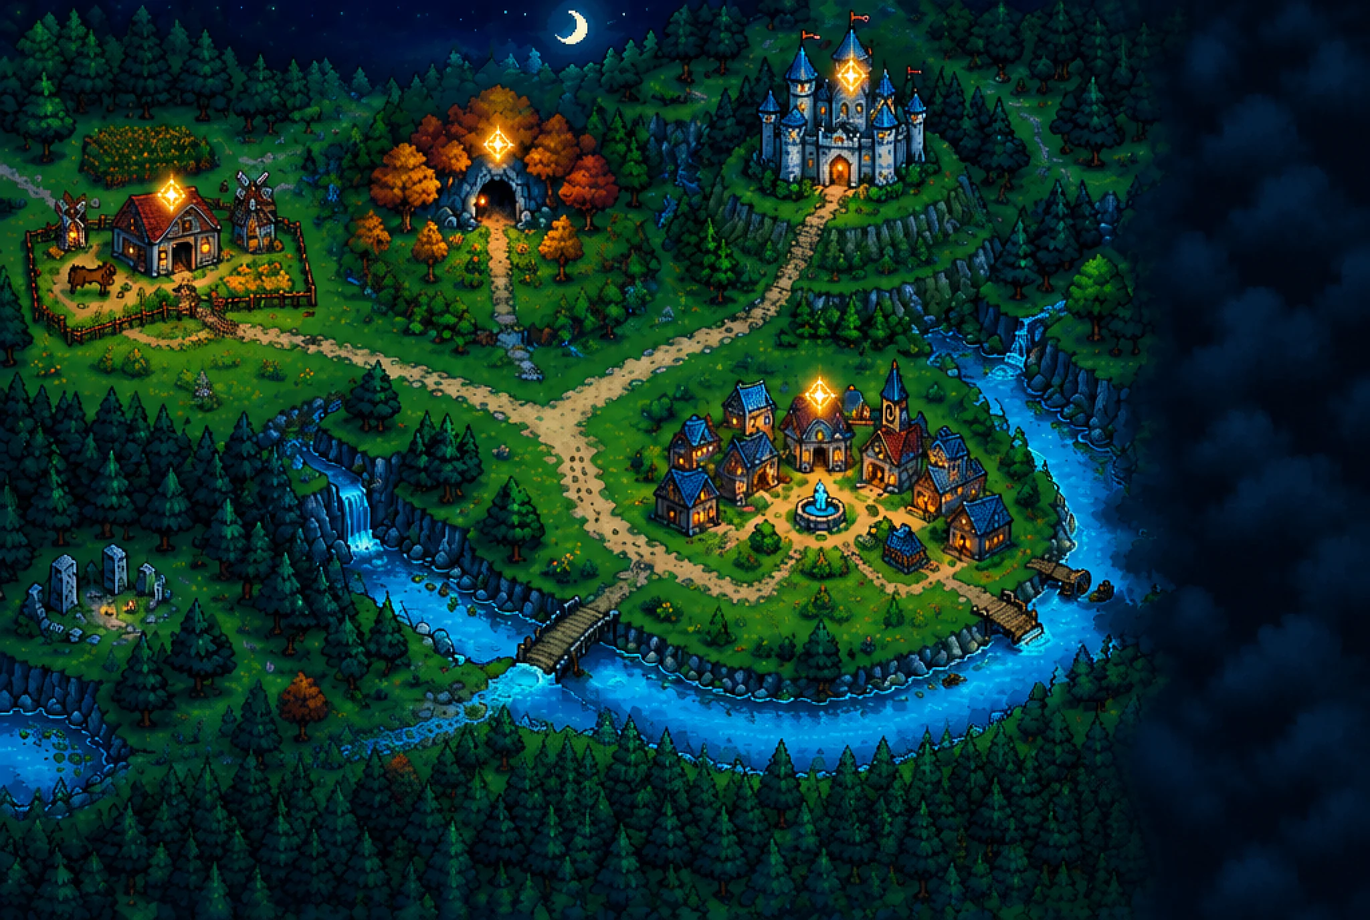
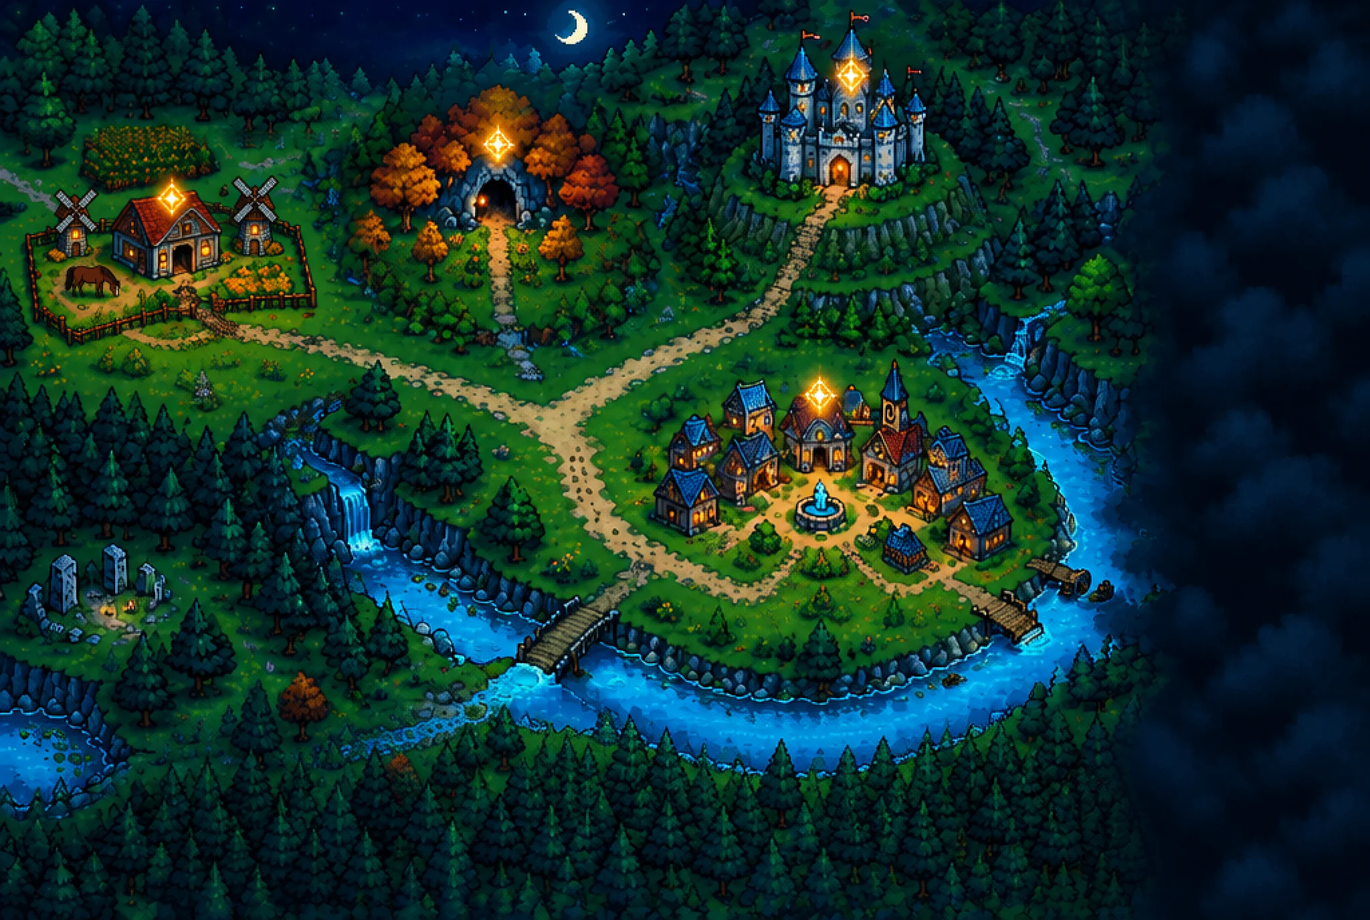
Homepage map: real water flow, map-grid heroes, redrawn farm
- Water now animates only where the map paints water: masks derived from
  the map plate (river split into four flow regions with their own
  direction, both waterfalls with falling streaks and foam at their feet).
  Replaces the hand-drawn SVG lines that sat off the river.
- Heroes and the raven re-sampled to the map's 2-map-px art grid with a
  1px dark outline, so their pixels match the painted world; Finn larger.
  Dropped the depth scaling that made pixel sizes uneven.
- Farm area of the map plate redrawn: two proper windmills with four sails
  and a readable chestnut horse with a white blaze, blended in seamlessly.

Changed region(s): [[0.0, 0.125, 0.25, 0.375]]

diff --git a/nl/index.html b/nl/index.html
@@ -182,17 +182,29 @@
     .beacon.soon { display: none; }
 
     /* living water: the river flows, the falls fall, the fountain sprays, windows flicker, a raven passes */
-    .water { position: absolute; inset: 0; width: 100%; height: 100%; pointer-events: none; mix-blend-mode: screen; overflow: visible; }
-    .water .flow path { fill: none; stroke: #bfeaff; stroke-width: 1.6; stroke-linecap: square; stroke-dasharray: 3 22; opacity: .5; animation: flow 3.4s linear infinite; }
-    .water .flow .f2 { stroke-dasharray: 5 31; stroke-width: 1.3; animation-duration: 4.6s; opacity: .45; }
-    .water .flow .f3 { stroke-dasharray: 2 17; stroke: #8fd8ff; animation-duration: 5.2s; animation-delay: -2s; opacity: .4; }
-    @keyframes flow { to { stroke-dashoffset: -100; } }
-    .water .falls path { fill: none; stroke: #e9fbff; stroke-width: 1.6; stroke-dasharray: 5 7; opacity: .7; animation: fall .55s linear infinite; }
-    .water .falls .b { stroke: #9fe3ff; stroke-dasharray: 3 9; animation-duration: .8s; opacity: .55; }
-    @keyframes fall { to { stroke-dashoffset: -24; } }
-    .water .foam ellipse { fill: #eafaff; opacity: .35; transform-box: fill-box; transform-origin: center; animation: foam 1.3s ease-in-out infinite; }
-    .water .foam .b { animation-delay: -.6s; }
-    @keyframes foam { 0%, 100% { opacity: .2; transform: scale(.8); } 50% { opacity: .55; transform: scale(1.15); } }
+    .water { position: absolute; inset: 0; pointer-events: none; }
+    .water > i { position: absolute; inset: 0; image-rendering: pixelated; -webkit-mask-size: 100% 100%; mask-size: 100% 100%; }
+    .water .flow { background: url(/assets/plates/water/ripple.png) 0 0 / calc(48 * var(--s)) calc(48 * var(--s)) repeat; mix-blend-mode: screen; opacity: .75; }
+    .fl-L { -webkit-mask-image: url(/assets/plates/water/flow-L.png); mask-image: url(/assets/plates/water/flow-L.png); animation: fl-se 4s linear infinite; }
+    .fl-S { -webkit-mask-image: url(/assets/plates/water/flow-S.png); mask-image: url(/assets/plates/water/flow-S.png); animation: fl-w 5s linear infinite; }
+    .fl-B { -webkit-mask-image: url(/assets/plates/water/flow-B.png); mask-image: url(/assets/plates/water/flow-B.png); animation: fl-w 4.6s linear infinite; }
+    .fl-R { -webkit-mask-image: url(/assets/plates/water/flow-R.png); mask-image: url(/assets/plates/water/flow-R.png); animation: fl-s 4.2s linear infinite; }
+    @keyframes fl-se { to { background-position: calc(48 * var(--s)) calc(48 * var(--s)); } }
+    @keyframes fl-w { to { background-position: calc(-48 * var(--s)) 0; } }
+    @keyframes fl-s { to { background-position: calc(-12 * var(--s)) calc(48 * var(--s)); } }
+    .water .sparkle { background: url(/assets/plates/water/sparkle.png) 0 0 / calc(48 * var(--s)) calc(48 * var(--s)) repeat;
+      -webkit-mask-image: url(/assets/plates/water/flow-L.png), url(/assets/plates/water/flow-S.png), url(/assets/plates/water/flow-B.png), url(/assets/plates/water/flow-R.png);
+              mask-image: url(/assets/plates/water/flow-L.png), url(/assets/plates/water/flow-S.png), url(/assets/plates/water/flow-B.png), url(/assets/plates/water/flow-R.png);
+      animation: twinkle 1.8s steps(3) infinite; }
+    @keyframes twinkle { 0% { opacity: .2; background-position: 0 0; } 50% { opacity: .9; } 100% { opacity: .2; background-position: calc(14 * var(--s)) calc(6 * var(--s)); } }
+    .water .falls { background: url(/assets/plates/water/fall.png) 0 0 / calc(24 * var(--s)) calc(32 * var(--s)) repeat;
+      -webkit-mask-image: url(/assets/plates/water/falls.png); mask-image: url(/assets/plates/water/falls.png); animation: falling .45s linear infinite; }
+    @keyframes falling { to { background-position: 0 calc(32 * var(--s)); } }
+    .water .foam { inset: auto; width: calc(26 * var(--s)); height: calc(8 * var(--s)); translate: -50% -50%; border-radius: 50%;
+      background: radial-gradient(closest-side, rgba(234, 250, 255, .6), rgba(234, 250, 255, 0)); animation: foam 1.2s ease-in-out infinite; }
+    .water .foam.b { width: calc(18 * var(--s)); animation-delay: -.5s; }
+    @keyframes foam { 0%, 100% { opacity: .35; scale: .8; } 50% { opacity: .9; scale: 1.15; } }
+    .water svg { position: absolute; inset: 0; width: 100%; height: 100%; overflow: visible; }
     .water .spray rect { fill: #dff7ff; transform-box: fill-box; animation: spray 1.4s ease-out infinite; }
     .water .spray .b { animation-delay: -.45s; } .water .spray .c { animation-delay: -.9s; }
     @keyframes spray { 0% { transform: translate(0, 0); opacity: 0; } 15% { opacity: 1; } 55% { transform: translate(0, -9px); } 100% { transform: translate(0, 1px); opacity: 0; } }
@@ -200,7 +212,7 @@
     .water .windows .b { animation-duration: 3.7s; } .water .windows .c { animation-duration: 2.2s; animation-delay: -1s; }
     @keyframes flicker { 0%, 100% { opacity: .2; } 33% { opacity: .55; } 66% { opacity: .35; } }
     .raven { position: absolute; left: -6%; top: 9%; width: calc(26 * var(--s)); height: calc(28 * var(--s)); image-rendering: pixelated;
-      background: url(/assets/heroes/raven-fly.png) 0 0 / 400% 100% no-repeat; filter: brightness(2.3) saturate(.7); z-index: 2;
+      background: url(/assets/heroes/map/raven-fly.png) 0 0 / 400% 100% no-repeat; filter: brightness(1.8) saturate(.7); z-index: 2;
       animation: wings .5s steps(4) infinite, fly-over 26s linear infinite; }
     @keyframes wings { to { background-position: 133.33% 0; } }
     @keyframes fly-over { 0% { left: -6%; top: 7%; } 15% { top: 3%; } 30% { left: 104%; top: 5%; } 30.01%, 100% { left: 104%; top: 5%; } }
@@ -467,35 +479,15 @@
       <div class="stage" id="stage">
         <img class="map" src="/assets/plates/map.webp" width="2048" height="1376" fetchpriority="high"
              alt="Pixel-art nachtkaart van RetroAdventureWorld: een boerderij met windmolens, een herfstbos met een grot, een blauw kasteel op een heuvel en een dorp met een fontein, verbonden door zandpaden en een rivier.">
-        <svg class="water" viewBox="0 0 1024 688" preserveAspectRatio="none" aria-hidden="true">
-          <g class="flow">
-            <path class="f1" d="M210 328 C225 336 240 345 258 356"/>
-            <path class="f2" d="M262 412 C290 430 320 455 350 470 S400 492 430 497 S500 525 560 532 S640 530 700 520"/>
-            <path class="f3" d="M262 412 C290 430 320 455 350 470 S400 492 430 497 S500 525 560 532 S640 530 700 520" transform="translate(4 10)"/>
-            <path class="f1" d="M690 238 C715 246 740 250 765 244"/>
-            <path class="f2" d="M770 280 C782 305 792 340 792 380 S785 440 760 465 S700 505 640 522"/>
-            <path class="f3" d="M770 280 C782 305 792 340 792 380 S785 440 760 465 S700 505 640 522" transform="translate(-9 2)"/>
-            <path class="f2" d="M470 548 C560 552 650 550 740 548 S840 556 900 566"/>
-            <path class="f3" d="M330 548 C290 556 250 562 210 566 S120 570 60 565"/>
-          </g>
-          <g class="falls">
-            <path d="M260 357V401M264 359V402M268 357V403M272 360V401"/>
-            <path class="b" d="M262 358V402M266 357V403M270 359V402"/>
-            <path d="M768 246V272M772 245V274M776 247V273M780 246V271"/>
-            <path class="b" d="M770 246V273M774 245V274M778 247V272"/>
-          </g>
-          <g class="foam">
-            <ellipse cx="268" cy="406" rx="11" ry="4"/><ellipse class="b" cx="262" cy="410" rx="7" ry="3"/>
-            <ellipse cx="775" cy="276" rx="8" ry="3"/><ellipse class="b" cx="770" cy="279" rx="5" ry="2"/>
-          </g>
-          <g class="spray">
-            <rect x="610" y="366" width="2" height="2"/><rect class="b" x="607" y="367" width="2" height="2"/><rect class="c" x="613" y="367" width="2" height="2"/>
-          </g>
-          <g class="windows">
-            <rect x="561" y="342" width="4" height="4"/><rect class="b" x="611" y="336" width="4" height="4"/><rect class="c" x="662" y="348" width="4" height="4"/>
-            <rect class="b" x="701" y="371" width="4" height="4"/><rect x="723" y="403" width="4" height="4"/><rect class="c" x="131" y="181" width="4" height="4"/>
-          </g>
-        </svg>
+        <div class="water" aria-hidden="true">
+          <i class="flow fl-L"></i><i class="flow fl-S"></i><i class="flow fl-B"></i><i class="flow fl-R"></i>
+          <i class="sparkle"></i><i class="falls"></i>
+          <i class="foam" style="left:25.9%;top:59.4%"></i><i class="foam b" style="left:75.6%;top:42.3%"></i>
+          <svg viewBox="0 0 1024 688" preserveAspectRatio="none">
+            <g class="spray"><rect x="610" y="366" width="2" height="2"/><rect class="b" x="607" y="367" width="2" height="2"/><rect class="c" x="613" y="367" width="2" height="2"/></g>
+            <g class="windows"><rect x="561" y="342" width="4" height="4"/><rect class="b" x="611" y="336" width="4" height="4"/><rect class="c" x="662" y="348" width="4" height="4"/><rect class="b" x="701" y="371" width="4" height="4"/><rect x="723" y="403" width="4" height="4"/><rect class="c" x="131" y="181" width="4" height="4"/></g>
+          </svg>
+        </div>
         <div id="ambient" aria-hidden="true"><i class="raven"></i></div>
         <div class="fog" aria-hidden="true"><i></i><i></i><i></i></div>
         <div id="beacons" aria-hidden="true"></div>
@@ -683,13 +675,13 @@
     var W = 1024, H = 688;
     /* Real in-game sprites. stride = map px walked per animation frame, so the feet never slide. */
     var HEROES = {
-      lois:  { idle: ['/assets/heroes/maanhoef.png', 29, 62], wave: [['/assets/heroes/maanhoef-wave.png', 36, 62], ['/assets/heroes/maanhoef.png', 29, 62]],
-               walk: '/assets/heroes/maanhoef-walk.png', fw: 33, fh: 62, frames: 4, stride: 7, h: 46, home: [300, 281] },
-      ember: { idle: ['/assets/heroes/emberfall.png', 34, 56], wave: [['/assets/heroes/emberfall-wave.png', 38, 56], ['/assets/heroes/emberfall.png', 34, 56]],
-               walk: '/assets/heroes/emberfall-walk.png', fw: 34, fh: 60, frames: 8, stride: 4.2, h: 44, home: [393, 268] },
-      finn:  { idle: ['/assets/heroes/finn-map.png', 54, 84], wave: [['/assets/heroes/finn-wave.png', 59, 84], ['/assets/heroes/finn-wave2.png', 54, 84]],
-               blink: ['/assets/heroes/finn-blink.png', 54, 84],
-               walk: '/assets/heroes/finn-walk.png', fw: 60, fh: 84, frames: 16, stride: 2.6, h: 50, home: [434, 334] }
+      lois:  { idle: ['/assets/heroes/map/lois.png', 13, 26], wave: [['/assets/heroes/map/lois-wave0.png', 16, 26], ['/assets/heroes/map/lois-wave1.png', 13, 26]],
+               walk: '/assets/heroes/map/lois-walk.png', fw: 15, fh: 26, frames: 4, stride: 7, h: 52, home: [300, 281] },
+      ember: { idle: ['/assets/heroes/map/ember.png', 16, 25], wave: [['/assets/heroes/map/ember-wave0.png', 18, 25], ['/assets/heroes/map/ember-wave1.png', 16, 25]],
+               walk: '/assets/heroes/map/ember-walk.png', fw: 15, fh: 25, frames: 8, stride: 4.2, h: 50, home: [393, 268] },
+      finn:  { idle: ['/assets/heroes/map/finn.png', 21, 32], wave: [['/assets/heroes/map/finn-wave0.png', 23, 32], ['/assets/heroes/map/finn-wave1.png', 21, 32]],
+               blink: ['/assets/heroes/map/finn-blink.png', 21, 32],
+               walk: '/assets/heroes/map/finn-walk.png', fw: 24, fh: 32, frames: 16, stride: 2.6, h: 64, home: [434, 334] }
     };
     var GAMES = [
       { id: 'maanhoef', hero: 'lois', href: '/games/maanhoef/', portrait: '/assets/heroes/portrait-maanhoef.png',
@@ -803,10 +795,8 @@
       sp.style.width = 'calc(' + (h.h * h.fw / h.fh) + ' * var(--s))'; sp.style.height = 'calc(' + h.h + ' * var(--s))';
     }
     function place(h) {
-      /* a touch of depth: further up the map is further away */
-      var d = 0.9 + 0.16 * (h.pos[1] / H);
       h.el.style.left = pct(h.pos[0], W); h.el.style.top = pct(h.pos[1], H);
-      h.el.style.transform = 'translate(-50%, -100%) scale(' + d.toFixed(3) + ')';
+      h.el.style.transform = 'translate(-50%, -100%)';
       h.spr.style.transform = h.flip ? 'scaleX(-1)' : '';
       h.el.style.zIndex = Math.round(h.pos[1]);
     }
@@ -980,8 +970,6 @@
     }
     [[150, 330], [250, 380], [90, 470], [330, 440], [210, 560], [480, 520], [700, 560], [760, 230], [520, 170], [300, 140], [60, 300], [640, 470], [820, 380], [180, 620]]
       .forEach(function (p, i) { dot('firefly', p[0], p[1], -i * 0.7); });
-    [[300, 432], [360, 470], [455, 505], [540, 530], [620, 512], [700, 470], [760, 380], [790, 300], [40, 560], [250, 400]]
-      .forEach(function (p, i) { dot('glint', p[0], p[1], -i * 0.45); });
     [[60, 16], [140, 34], [250, 12], [330, 30], [480, 18], [520, 40], [700, 14], [760, 34], [880, 20], [980, 40]]
       .forEach(function (p, i) { dot('star', p[0], p[1], -i * 0.5); });
     [[106, 128, 0], [106, 128, -1.2], [106, 128, -2.4], [572, 290, -0.6], [572, 290, -1.8], [688, 318, -1.1], [688, 318, -2.9]]

diff --git a/index.html b/index.html
@@ -180,17 +180,29 @@
     .beacon.soon { display: none; }
 
     /* living water: the river flows, the falls fall, the fountain sprays, windows flicker, a raven passes */
-    .water { position: absolute; inset: 0; width: 100%; height: 100%; pointer-events: none; mix-blend-mode: screen; overflow: visible; }
-    .water .flow path { fill: none; stroke: #bfeaff; stroke-width: 1.6; stroke-linecap: square; stroke-dasharray: 3 22; opacity: .5; animation: flow 3.4s linear infinite; }
-    .water .flow .f2 { stroke-dasharray: 5 31; stroke-width: 1.3; animation-duration: 4.6s; opacity: .45; }
-    .water .flow .f3 { stroke-dasharray: 2 17; stroke: #8fd8ff; animation-duration: 5.2s; animation-delay: -2s; opacity: .4; }
-    @keyframes flow { to { stroke-dashoffset: -100; } }
-    .water .falls path { fill: none; stroke: #e9fbff; stroke-width: 1.6; stroke-dasharray: 5 7; opacity: .7; animation: fall .55s linear infinite; }
-    .water .falls .b { stroke: #9fe3ff; stroke-dasharray: 3 9; animation-duration: .8s; opacity: .55; }
-    @keyframes fall { to { stroke-dashoffset: -24; } }
-    .water .foam ellipse { fill: #eafaff; opacity: .35; transform-box: fill-box; transform-origin: center; animation: foam 1.3s ease-in-out infinite; }
-    .water .foam .b { animation-delay: -.6s; }
-    @keyframes foam { 0%, 100% { opacity: .2; transform: scale(.8); } 50% { opacity: .55; transform: scale(1.15); } }
+    .water { position: absolute; inset: 0; pointer-events: none; }
+    .water > i { position: absolute; inset: 0; image-rendering: pixelated; -webkit-mask-size: 100% 100%; mask-size: 100% 100%; }
+    .water .flow { background: url(assets/plates/water/ripple.png) 0 0 / calc(48 * var(--s)) calc(48 * var(--s)) repeat; mix-blend-mode: screen; opacity: .75; }
+    .fl-L { -webkit-mask-image: url(assets/plates/water/flow-L.png); mask-image: url(assets/plates/water/flow-L.png); animation: fl-se 4s linear infinite; }
+    .fl-S { -webkit-mask-image: url(assets/plates/water/flow-S.png); mask-image: url(assets/plates/water/flow-S.png); animation: fl-w 5s linear infinite; }
+    .fl-B { -webkit-mask-image: url(assets/plates/water/flow-B.png); mask-image: url(assets/plates/water/flow-B.png); animation: fl-w 4.6s linear infinite; }
+    .fl-R { -webkit-mask-image: url(assets/plates/water/flow-R.png); mask-image: url(assets/plates/water/flow-R.png); animation: fl-s 4.2s linear infinite; }
+    @keyframes fl-se { to { background-position: calc(48 * var(--s)) calc(48 * var(--s)); } }
+    @keyframes fl-w { to { background-position: calc(-48 * var(--s)) 0; } }
+    @keyframes fl-s { to { background-position: calc(-12 * var(--s)) calc(48 * var(--s)); } }
+    .water .sparkle { background: url(assets/plates/water/sparkle.png) 0 0 / calc(48 * var(--s)) calc(48 * var(--s)) repeat;
+      -webkit-mask-image: url(assets/plates/water/flow-L.png), url(assets/plates/water/flow-S.png), url(assets/plates/water/flow-B.png), url(assets/plates/water/flow-R.png);
+              mask-image: url(assets/plates/water/flow-L.png), url(assets/plates/water/flow-S.png), url(assets/plates/water/flow-B.png), url(assets/plates/water/flow-R.png);
+      animation: twinkle 1.8s steps(3) infinite; }
+    @keyframes twinkle { 0% { opacity: .2; background-position: 0 0; } 50% { opacity: .9; } 100% { opacity: .2; background-position: calc(14 * var(--s)) calc(6 * var(--s)); } }
+    .water .falls { background: url(assets/plates/water/fall.png) 0 0 / calc(24 * var(--s)) calc(32 * var(--s)) repeat;
+      -webkit-mask-image: url(assets/plates/water/falls.png); mask-image: url(assets/plates/water/falls.png); animation: falling .45s linear infinite; }
+    @keyframes falling { to { background-position: 0 calc(32 * var(--s)); } }
+    .water .foam { inset: auto; width: calc(26 * var(--s)); height: calc(8 * var(--s)); translate: -50% -50%; border-radius: 50%;
+      background: radial-gradient(closest-side, rgba(234, 250, 255, .6), rgba(234, 250, 255, 0)); animation: foam 1.2s ease-in-out infinite; }
+    .water .foam.b { width: calc(18 * var(--s)); animation-delay: -.5s; }
+    @keyframes foam { 0%, 100% { opacity: .35; scale: .8; } 50% { opacity: .9; scale: 1.15; } }
+    .water svg { position: absolute; inset: 0; width: 100%; height: 100%; overflow: visible; }
     .water .spray rect { fill: #dff7ff; transform-box: fill-box; animation: spray 1.4s ease-out infinite; }
     .water .spray .b { animation-delay: -.45s; } .water .spray .c { animation-delay: -.9s; }
     @keyframes spray { 0% { transform: translate(0, 0); opacity: 0; } 15% { opacity: 1; } 55% { transform: translate(0, -9px); } 100% { transform: translate(0, 1px); opacity: 0; } }
@@ -198,7 +210,7 @@
     .water .windows .b { animation-duration: 3.7s; } .water .windows .c { animation-duration: 2.2s; animation-delay: -1s; }
     @keyframes flicker { 0%, 100% { opacity: .2; } 33% { opacity: .55; } 66% { opacity: .35; } }
     .raven { position: absolute; left: -6%; top: 9%; width: calc(26 * var(--s)); height: calc(28 * var(--s)); image-rendering: pixelated;
-      background: url(assets/heroes/raven-fly.png) 0 0 / 400% 100% no-repeat; filter: brightness(2.3) saturate(.7); z-index: 2;
+      background: url(assets/heroes/map/raven-fly.png) 0 0 / 400% 100% no-repeat; filter: brightness(1.8) saturate(.7); z-index: 2;
       animation: wings .5s steps(4) infinite, fly-over 26s linear infinite; }
     @keyframes wings { to { background-position: 133.33% 0; } }
     @keyframes fly-over { 0% { left: -6%; top: 7%; } 15% { top: 3%; } 30% { left: 104%; top: 5%; } 30.01%, 100% { left: 104%; top: 5%; } }
@@ -465,35 +477,15 @@
       <div class="stage" id="stage">
         <img class="map" src="assets/plates/map.webp" width="2048" height="1376" fetchpriority="high"
              alt="Pixel-art night map of RetroAdventureWorld: a farm with windmills, an autumn forest with a cave, a blue castle on a hill and a village with a fountain, linked by dirt paths and a river.">
-        <svg class="water" viewBox="0 0 1024 688" preserveAspectRatio="none" aria-hidden="true">
-          <g class="flow">
-            <path class="f1" d="M210 328 C225 336 240 345 258 356"/>
-            <path class="f2" d="M262 412 C290 430 320 455 350 470 S400 492 430 497 S500 525 560 532 S640 530 700 520"/>
-            <path class="f3" d="M262 412 C290 430 320 455 350 470 S400 492 430 497 S500 525 560 532 S640 530 700 520" transform="translate(4 10)"/>
-            <path class="f1" d="M690 238 C715 246 740 250 765 244"/>
-            <path class="f2" d="M770 280 C782 305 792 340 792 380 S785 440 760 465 S700 505 640 522"/>
-            <path class="f3" d="M770 280 C782 305 792 340 792 380 S785 440 760 465 S700 505 640 522" transform="translate(-9 2)"/>
-            <path class="f2" d="M470 548 C560 552 650 550 740 548 S840 556 900 566"/>
-            <path class="f3" d="M330 548 C290 556 250 562 210 566 S120 570 60 565"/>
-          </g>
-          <g class="falls">
-            <path d="M260 357V401M264 359V402M268 357V403M272 360V401"/>
-            <path class="b" d="M262 358V402M266 357V403M270 359V402"/>
-            <path d="M768 246V272M772 245V274M776 247V273M780 246V271"/>
-            <path class="b" d="M770 246V273M774 245V274M778 247V272"/>
-          </g>
-          <g class="foam">
-            <ellipse cx="268" cy="406" rx="11" ry="4"/><ellipse class="b" cx="262" cy="410" rx="7" ry="3"/>
-            <ellipse cx="775" cy="276" rx="8" ry="3"/><ellipse class="b" cx="770" cy="279" rx="5" ry="2"/>
-          </g>
-          <g class="spray">
-            <rect x="610" y="366" width="2" height="2"/><rect class="b" x="607" y="367" width="2" height="2"/><rect class="c" x="613" y="367" width="2" height="2"/>
-          </g>
-          <g class="windows">
-            <rect x="561" y="342" width="4" height="4"/><rect class="b" x="611" y="336" width="4" height="4"/><rect class="c" x="662" y="348" width="4" height="4"/>
-            <rect class="b" x="701" y="371" width="4" height="4"/><rect x="723" y="403" width="4" height="4"/><rect class="c" x="131" y="181" width="4" height="4"/>
-          </g>
-        </svg>
+        <div class="water" aria-hidden="true">
+          <i class="flow fl-L"></i><i class="flow fl-S"></i><i class="flow fl-B"></i><i class="flow fl-R"></i>
+          <i class="sparkle"></i><i class="falls"></i>
+          <i class="foam" style="left:25.9%;top:59.4%"></i><i class="foam b" style="left:75.6%;top:42.3%"></i>
+          <svg viewBox="0 0 1024 688" preserveAspectRatio="none">
+            <g class="spray"><rect x="610" y="366" width="2" height="2"/><rect class="b" x="607" y="367" width="2" height="2"/><rect class="c" x="613" y="367" width="2" height="2"/></g>
+            <g class="windows"><rect x="561" y="342" width="4" height="4"/><rect class="b" x="611" y="336" width="4" height="4"/><rect class="c" x="662" y="348" width="4" height="4"/><rect class="b" x="701" y="371" width="4" height="4"/><rect x="723" y="403" width="4" height="4"/><rect class="c" x="131" y="181" width="4" height="4"/></g>
+          </svg>
+        </div>
         <div id="ambient" aria-hidden="true"><i class="raven"></i></div>
         <div class="fog" aria-hidden="true"><i></i><i></i><i></i></div>
         <div id="beacons" aria-hidden="true"></div>
@@ -681,13 +673,13 @@
     var W = 1024, H = 688;
     /* Real in-game sprites. stride = map px walked per animation frame, so the feet never slide. */
     var HEROES = {
-      lois:  { idle: ['assets/heroes/maanhoef.png', 29, 62], wave: [['assets/heroes/maanhoef-wave.png', 36, 62], ['assets/heroes/maanhoef.png', 29, 62]],
-               walk: 'assets/heroes/maanhoef-walk.png', fw: 33, fh: 62, frames: 4, stride: 7, h: 46, home: [300, 281] },
-      ember: { idle: ['assets/heroes/emberfall.png', 34, 56], wave: [['assets/heroes/emberfall-wave.png', 38, 56], ['assets/heroes/emberfall.png', 34, 56]],
-               walk: 'assets/heroes/emberfall-walk.png', fw: 34, fh: 60, frames: 8, stride: 4.2, h: 44, home: [393, 268] },
-      finn:  { idle: ['assets/heroes/finn-map.png', 54, 84], wave: [['assets/heroes/finn-wave.png', 59, 84], ['assets/heroes/finn-wave2.png', 54, 84]],
-               blink: ['assets/heroes/finn-blink.png', 54, 84],
-               walk: 'assets/heroes/finn-walk.png', fw: 60, fh: 84, frames: 16, stride: 2.6, h: 50, home: [434, 334] }
+      lois:  { idle: ['assets/heroes/map/lois.png', 13, 26], wave: [['assets/heroes/map/lois-wave0.png', 16, 26], ['assets/heroes/map/lois-wave1.png', 13, 26]],
+               walk: 'assets/heroes/map/lois-walk.png', fw: 15, fh: 26, frames: 4, stride: 7, h: 52, home: [300, 281] },
+      ember: { idle: ['assets/heroes/map/ember.png', 16, 25], wave: [['assets/heroes/map/ember-wave0.png', 18, 25], ['assets/heroes/map/ember-wave1.png', 16, 25]],
+               walk: 'assets/heroes/map/ember-walk.png', fw: 15, fh: 25, frames: 8, stride: 4.2, h: 50, home: [393, 268] },
+      finn:  { idle: ['assets/heroes/map/finn.png', 21, 32], wave: [['assets/heroes/map/finn-wave0.png', 23, 32], ['assets/heroes/map/finn-wave1.png', 21, 32]],
+               blink: ['assets/heroes/map/finn-blink.png', 21, 32],
+               walk: 'assets/heroes/map/finn-walk.png', fw: 24, fh: 32, frames: 16, stride: 2.6, h: 64, home: [434, 334] }
     };
     var GAMES = [
       { id: 'maanhoef', hero: 'lois', href: 'games/maanhoef/', portrait: 'assets/heroes/portrait-maanhoef.png',
@@ -801,10 +793,8 @@
       sp.style.width = 'calc(' + (h.h * h.fw / h.fh) + ' * var(--s))'; sp.style.height = 'calc(' + h.h + ' * var(--s))';
     }
     function place(h) {
-      /* a touch of depth: further up the map is further away */
-      var d = 0.9 + 0.16 * (h.pos[1] / H);
       h.el.style.left = pct(h.pos[0], W); h.el.style.top = pct(h.pos[1], H);
-      h.el.style.transform = 'translate(-50%, -100%) scale(' + d.toFixed(3) + ')';
+      h.el.style.transform = 'translate(-50%, -100%)';
       h.spr.style.transform = h.flip ? 'scaleX(-1)' : '';
       h.el.style.zIndex = Math.round(h.pos[1]);
     }
@@ -978,8 +968,6 @@
     }
     [[150, 330], [250, 380], [90, 470], [330, 440], [210, 560], [480, 520], [700, 560], [760, 230], [520, 170], [300, 140], [60, 300], [640, 470], [820, 380], [180, 620]]
       .forEach(function (p, i) { dot('firefly', p[0], p[1], -i * 0.7); });
-    [[300, 432], [360, 470], [455, 505], [540, 530], [620, 512], [700, 470], [760, 380], [790, 300], [40, 560], [250, 400]]
-      .forEach(function (p, i) { dot('glint', p[0], p[1], -i * 0.45); });
     [[60, 16], [140, 34], [250, 12], [330, 30], [480, 18], [520, 40], [700, 14], [760, 34], [880, 20], [980, 40]]
       .forEach(function (p, i) { dot('star', p[0], p[1], -i * 0.5); });
     [[106, 128, 0], [106, 128, -1.2], [106, 128, -2.4], [572, 290, -0.6], [572, 290, -1.8], [688, 318, -1.1], [688, 318, -2.9]]
